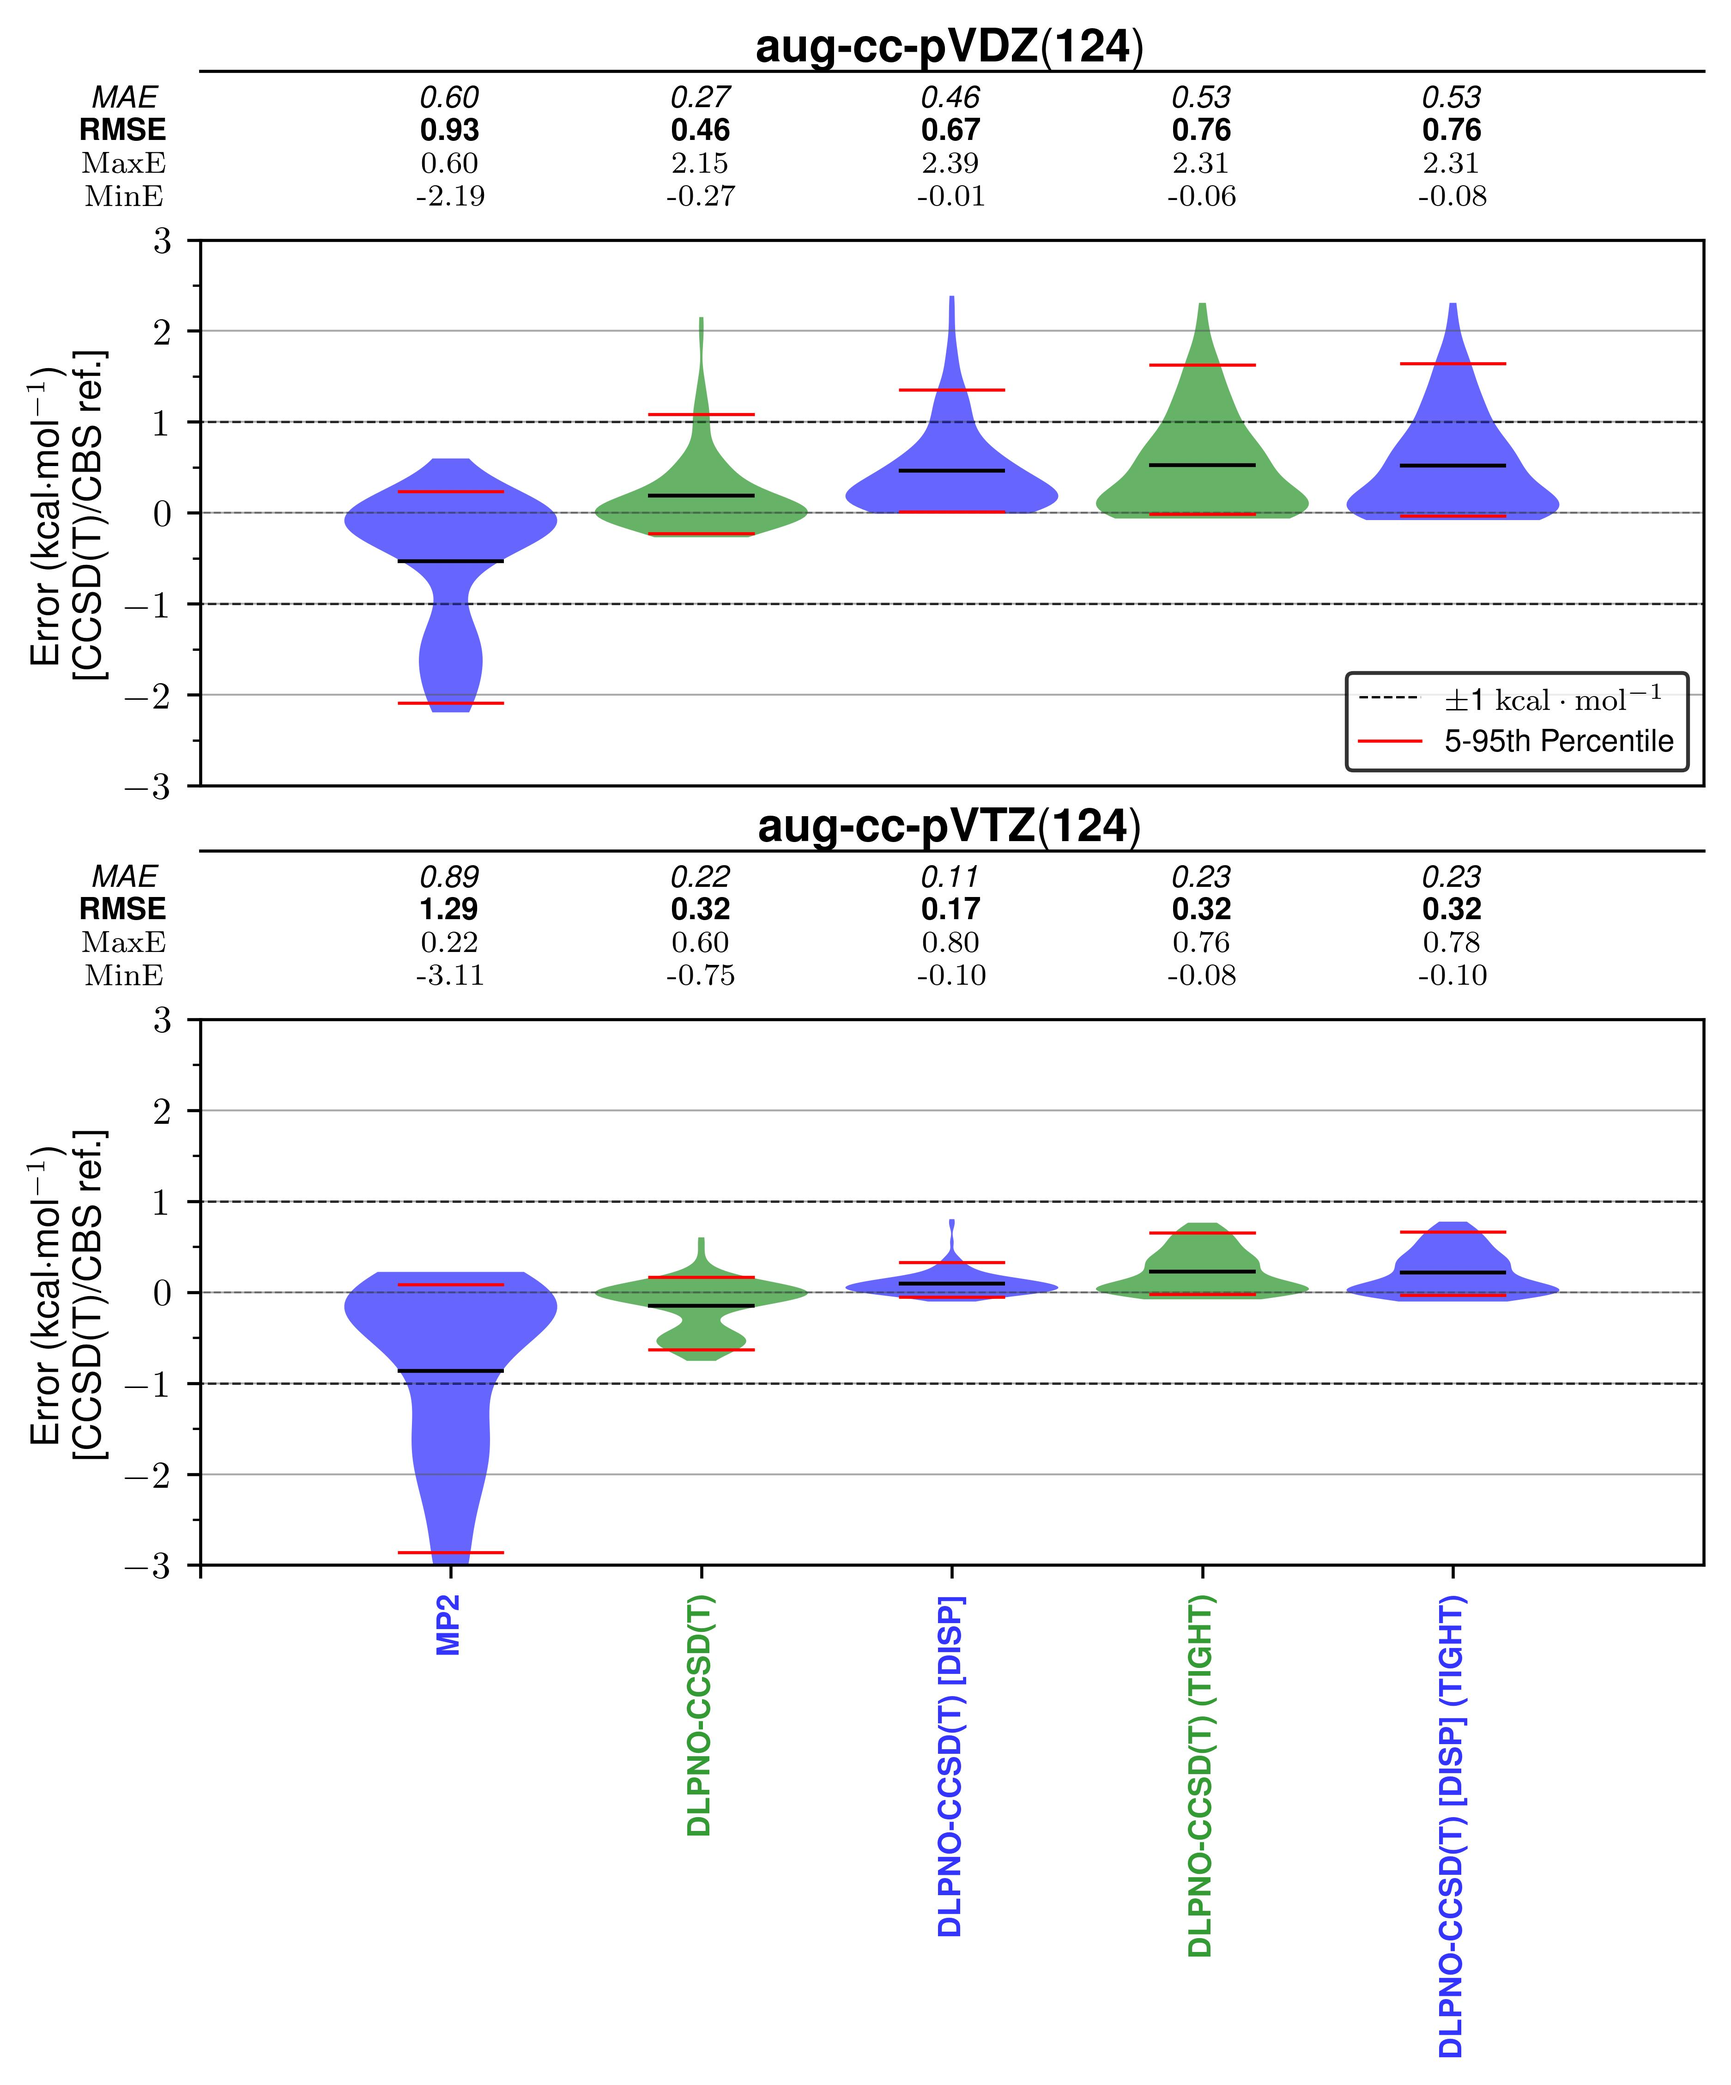
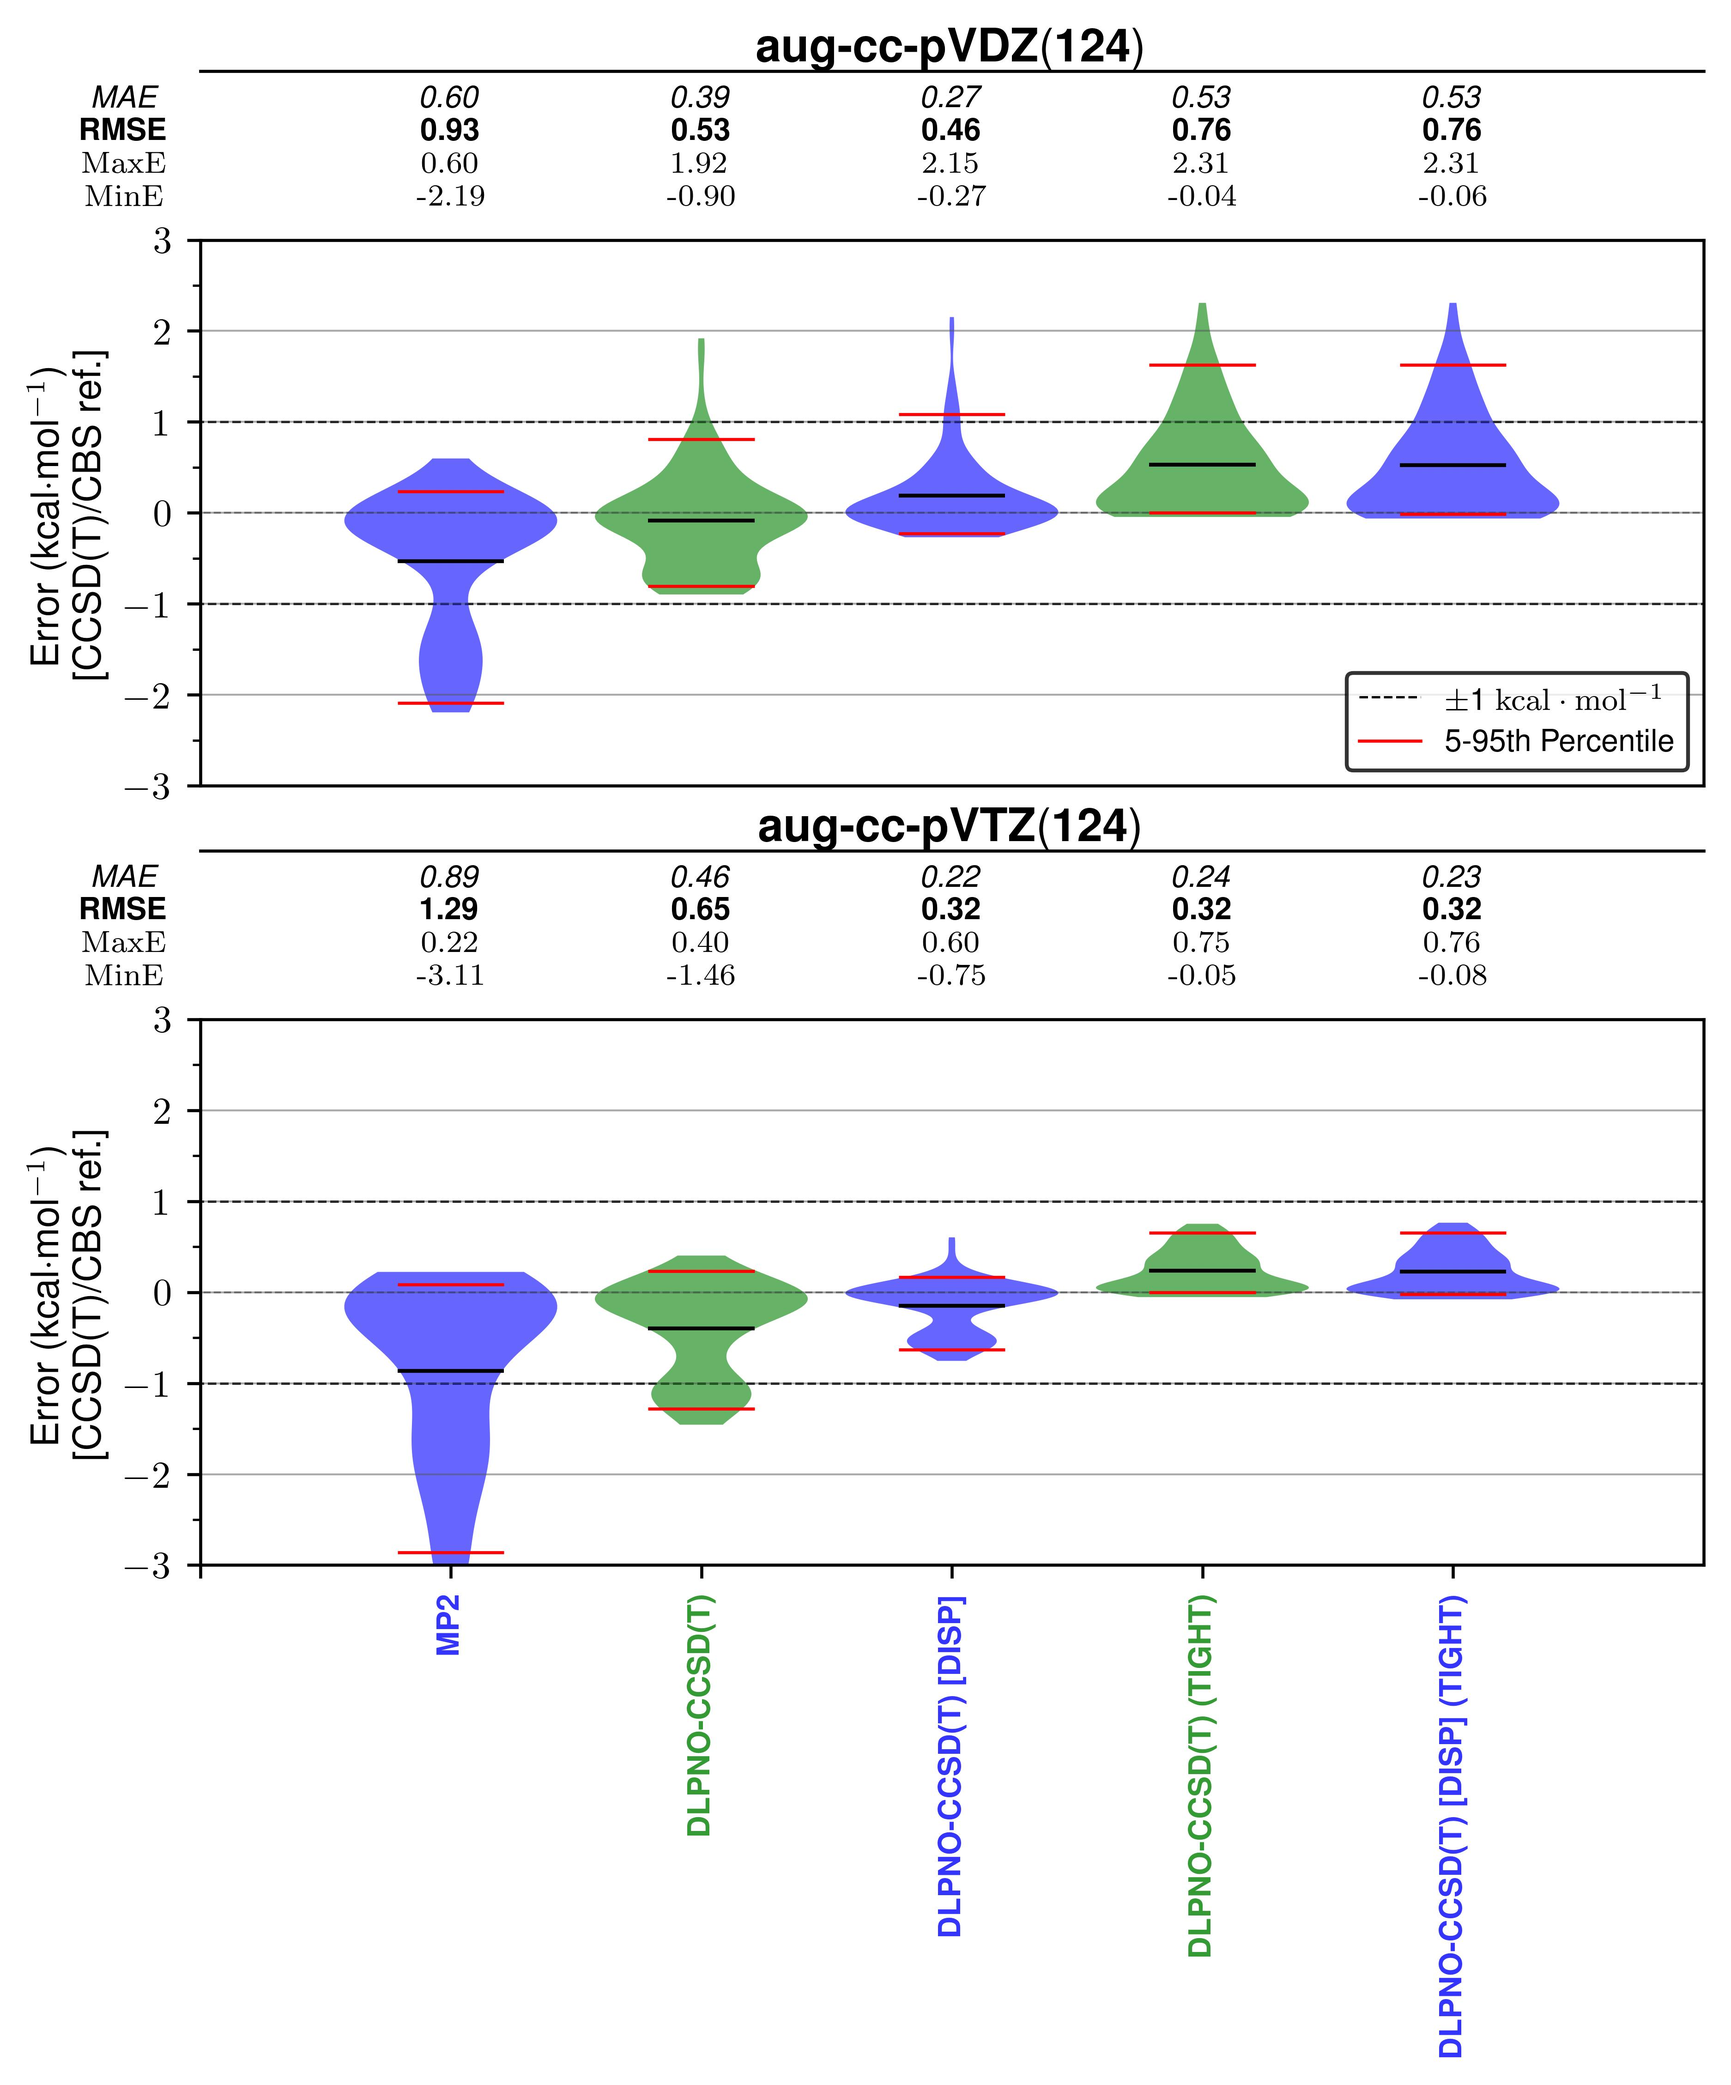
rm disp2

diff --git a/main.py b/main.py
@@ -118,22 +118,24 @@ def plot_dlpno_results(df, limit_to_column_not_nan=None):
     #     df["DLPNO_CCSD_IEIGHT_atz"] + df["DLPNO_CCSD_IEIGHT_atz_CCSD_Disp"]
     # )
 
-    df["DLPNO_CCSD_T_IE adz"] = df["DLPNO_CCSD_T_IE_adz"]
-    df["DLPNO_CCSD_T_IE atz"] = df["DLPNO_CCSD_T_IE_atz"]
-    df["DLPNO_CCSD_T_IE_TIGHT adz"] = df["DLPNO_CCSD_T_IE_TIGHT_adz"]
-    df["DLPNO_CCSD_T_IE_TIGHT atz"] = df["DLPNO_CCSD_T_IE_TIGHT_atz"]
-    df["DLPNO_CCSD_T_IE_DISP adz"] = (
-        df["DLPNO_CCSD_T_IE_adz"] + df["DLPNO_CCSD_T_IE_adz_CCSD_Disp"]
+    df["DLPNO_CCSD_T_IE adz"] = (
+        df["DLPNO_CCSD_T_IE_adz"] - df["DLPNO_CCSD_T_IE_adz_CCSD_Disp"]
     )
-    df["DLPNO_CCSD_T_IE_DISP atz"] = (
-        df["DLPNO_CCSD_T_IE_atz"] + df["DLPNO_CCSD_T_IE_atz_CCSD_Disp"]
+    df["DLPNO_CCSD_T_IE atz"] = (
+        df["DLPNO_CCSD_T_IE_atz"] - df["DLPNO_CCSD_T_IE_atz_CCSD_Disp"]
     )
-    df["DLPNO_CCSD_T_IE_DISP_TIGHT adz"] = (
-        df["DLPNO_CCSD_T_IE_TIGHT_adz"] + df["DLPNO_CCSD_T_IE_TIGHT_adz_CCSD_Disp"]
+    df["DLPNO_CCSD_T_IE_TIGHT adz"] = (
+        df["DLPNO_CCSD_T_IE_TIGHT_adz"] - df["DLPNO_CCSD_T_IE_TIGHT_adz_CCSD_Disp"]
     )
-    df["DLPNO_CCSD_T_IE_DISP_TIGHT atz"] = (
-        df["DLPNO_CCSD_T_IE_TIGHT_atz"] + df["DLPNO_CCSD_T_IE_TIGHT_atz_CCSD_Disp"]
+    df["DLPNO_CCSD_T_IE_TIGHT atz"] = (
+        df["DLPNO_CCSD_T_IE_TIGHT_atz"] - df["DLPNO_CCSD_T_IE_TIGHT_atz_CCSD_Disp"]
     )
+
+    df["DLPNO_CCSD_T_IE_DISP adz"] = df["DLPNO_CCSD_T_IE_adz"]
+    df["DLPNO_CCSD_T_IE_DISP atz"] = df["DLPNO_CCSD_T_IE_atz"]
+    df["DLPNO_CCSD_T_IE_DISP_TIGHT adz"] = df["DLPNO_CCSD_T_IE_TIGHT_adz"]
+    df["DLPNO_CCSD_T_IE_DISP_TIGHT atz"] = df["DLPNO_CCSD_T_IE_TIGHT_atz"]
+
 
     ie_methods = [
         # "DLPNO_CCSD_IE adz",
@@ -165,6 +167,7 @@ def plot_dlpno_results(df, limit_to_column_not_nan=None):
     print(
         df_adz[[
             "ref",
+            "MP2 IE",
             "DLPNO_CCSD_T_IE_DISP",
             "DLPNO_CCSD_T_IE_adz",
             "DLPNO_CCSD_T_IE_adz_CCSD_Disp",
